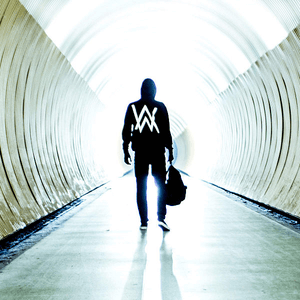
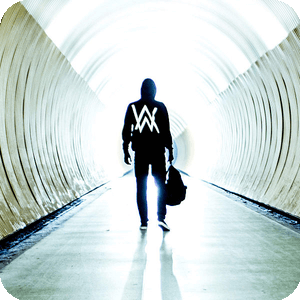
update spotify player with crisp album cover image

diff --git a/README.md b/README.md
@@ -21,7 +21,7 @@ $ cat aboutme.json
 
 <p align="left">
   <a href="https://open.spotify.com/track/698ItKASD2wZ392g17Wpnd" target="_blank">
-    <img src="./assets/spotify-player.svg" alt="Alan Walker - Faded" width="420" />
+    <img src="./assets/spotify-faded.png" alt="Alan Walker - Faded" width="430" />
   </a>
 </p>
 
